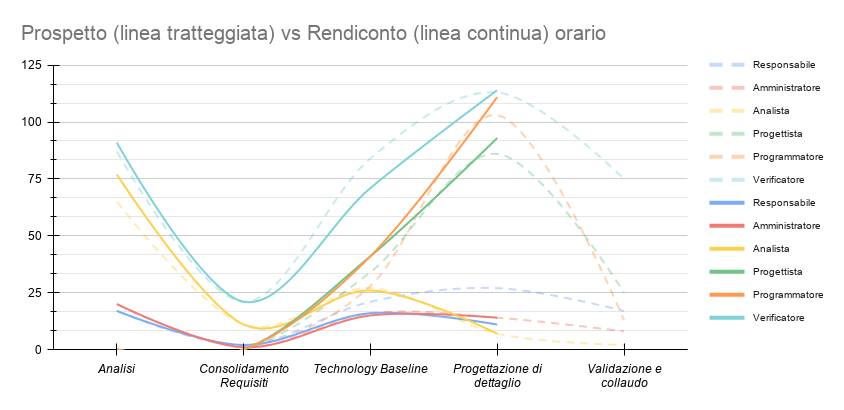
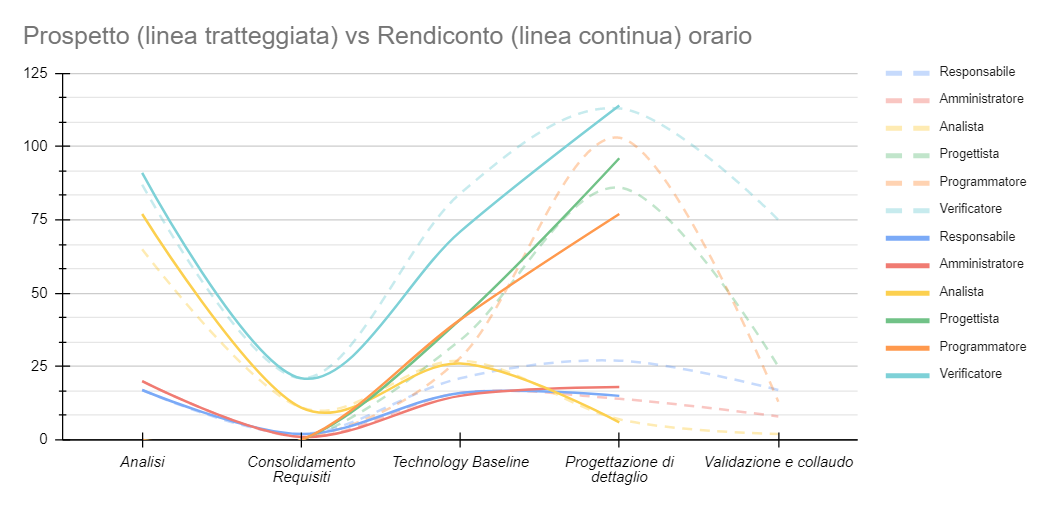
modifiche

diff --git a/esterni/piano_di_progetto/src/6_consuntivo.tex b/esterni/piano_di_progetto/src/6_consuntivo.tex
@@ -314,19 +314,14 @@ rispetto alla curva ideale preventivata, ma nel complesso ci siamo mantenuti sot
 \end{figure}
 
 
-
-% \subsubsection{Conclusioni}%
-% \label{sub:cons_con_4}
+Di seguito, invece, il grafico che espone lo differenza oraria e di budget di preventivo e consutivo per quanto riguarda i singoli ruoli:
 
 
-% Di seguito il grafico che espone lo scostamento tra le ore preventivate e le ore ore consuntivate: (?????????)
-
-
-% \begin{figure}[H]
-% 	\centering
-% 	\includegraphics[width=17cm]{src/img/report/prospetto_ore_totale}
-% 	\caption{Scostamento tra ore preventivate a finire e ore consuntivate}
-% \end{figure}
+\begin{figure}[H]
+	\centering
+	\includegraphics[width=17cm]{src/img/report/prospetto_ore_totale}
+	\caption{Scostamento tra ore preventivate a finire e ore consuntivate}
+\end{figure}
 
 
 % Di seguito lo spaccato per ruolo di ore e costi:
@@ -353,11 +348,11 @@ rispetto alla curva ideale preventivata, ma nel complesso ci siamo mantenuti sot
 
 % Di seguito il grafico che espone lo scostamento tra i costi preventivati e i costi consuntivati:
 
-% \begin{figure}[H]
-% 	\centering
-% 	\includegraphics[width=17cm]{src/img/report/prospetto_costi_totale}
-% 	\caption{Scostamento tra costi preventivati a finire e costi consuntivati}
-% \end{figure}
+\begin{figure}[H]
+	\centering
+	\includegraphics[width=17cm]{src/img/report/prospetto_costi_totale}
+	\caption{Scostamento tra costi preventivati a finire e costi consuntivati}
+\end{figure}
 
 
 % \noindent Il carico di ore per persona è rimasto invariato, tuttavia togliendo alcune ore ai ruoli di \textsc{amministratore} e \textsc{responsabile} il preventivo è sceso di 402,00 €.\\

diff --git a/esterni/piano_di_progetto/src/8_organigramma.tex b/esterni/piano_di_progetto/src/8_organigramma.tex
@@ -12,8 +12,8 @@
 		\rowcolor{lightgray}
 		\textbf{Nominativo} & \textbf{Data di redazione} & \textbf{Firma}\\ 
 		\hline
-			Martin Masevski & 2021-03-08 & \includegraphics[height=1.5cm]{src/img/firme/firma_mm.png} \\
-			Manuel Pagotto & 2021-03-08 & \includegraphics[height=1.5cm]{src/img/firme/firma_mp.png} \\
+			Contro Daniel Eduardo & 2021-03-08 & \includegraphics[height=1.5cm]{src/img/firme/firma_dec.png} \\
+			Kostadinov Samuel & 2021-03-08 & \includegraphics[height=1.5cm]{src/img/firme/firma_sk.png} \\
 		\hline
 	\end{tabular}
 	\caption{Firma di Redazione}
